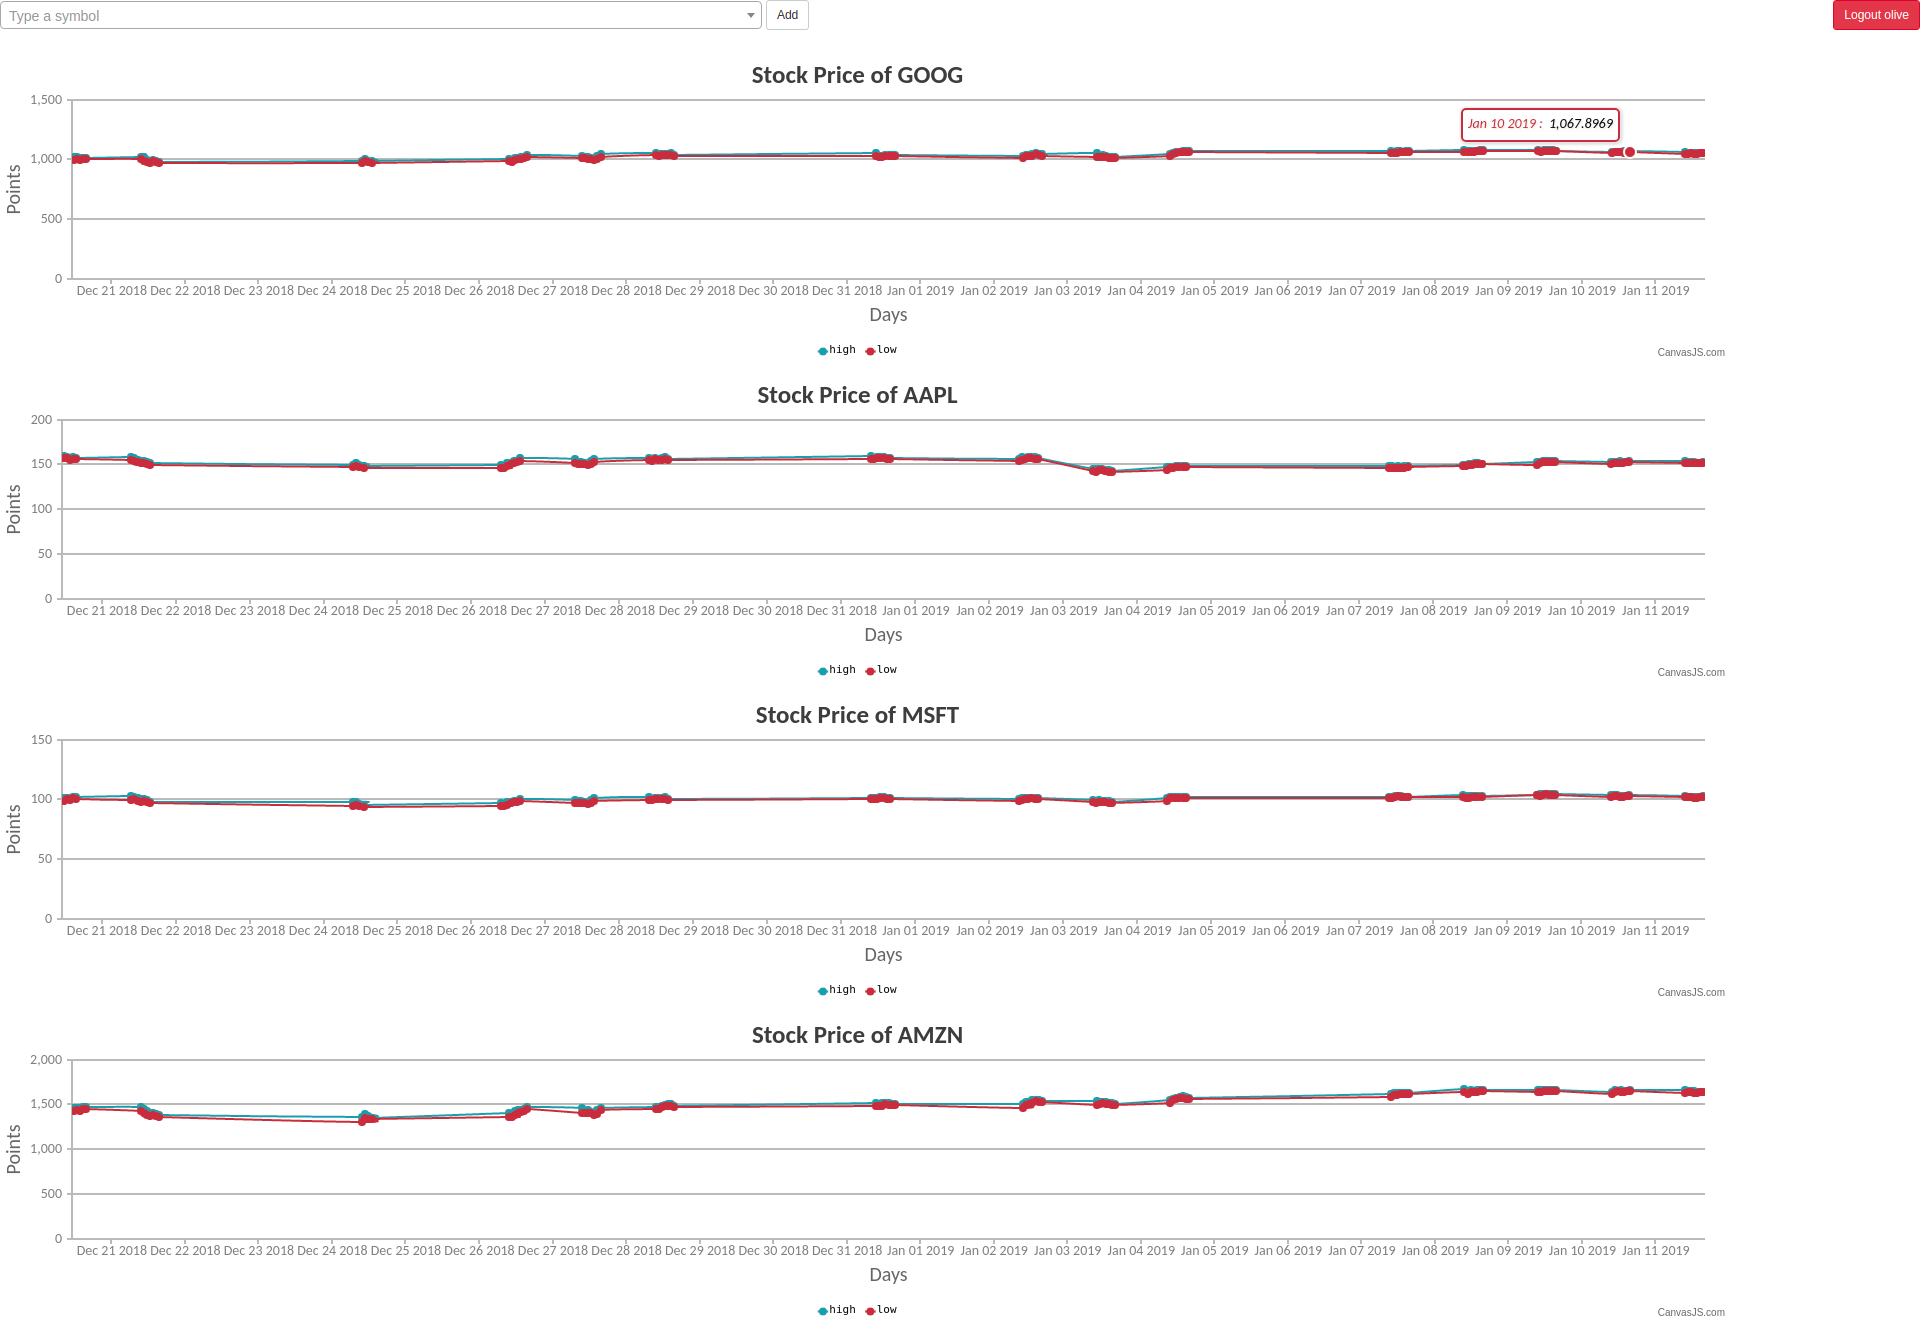
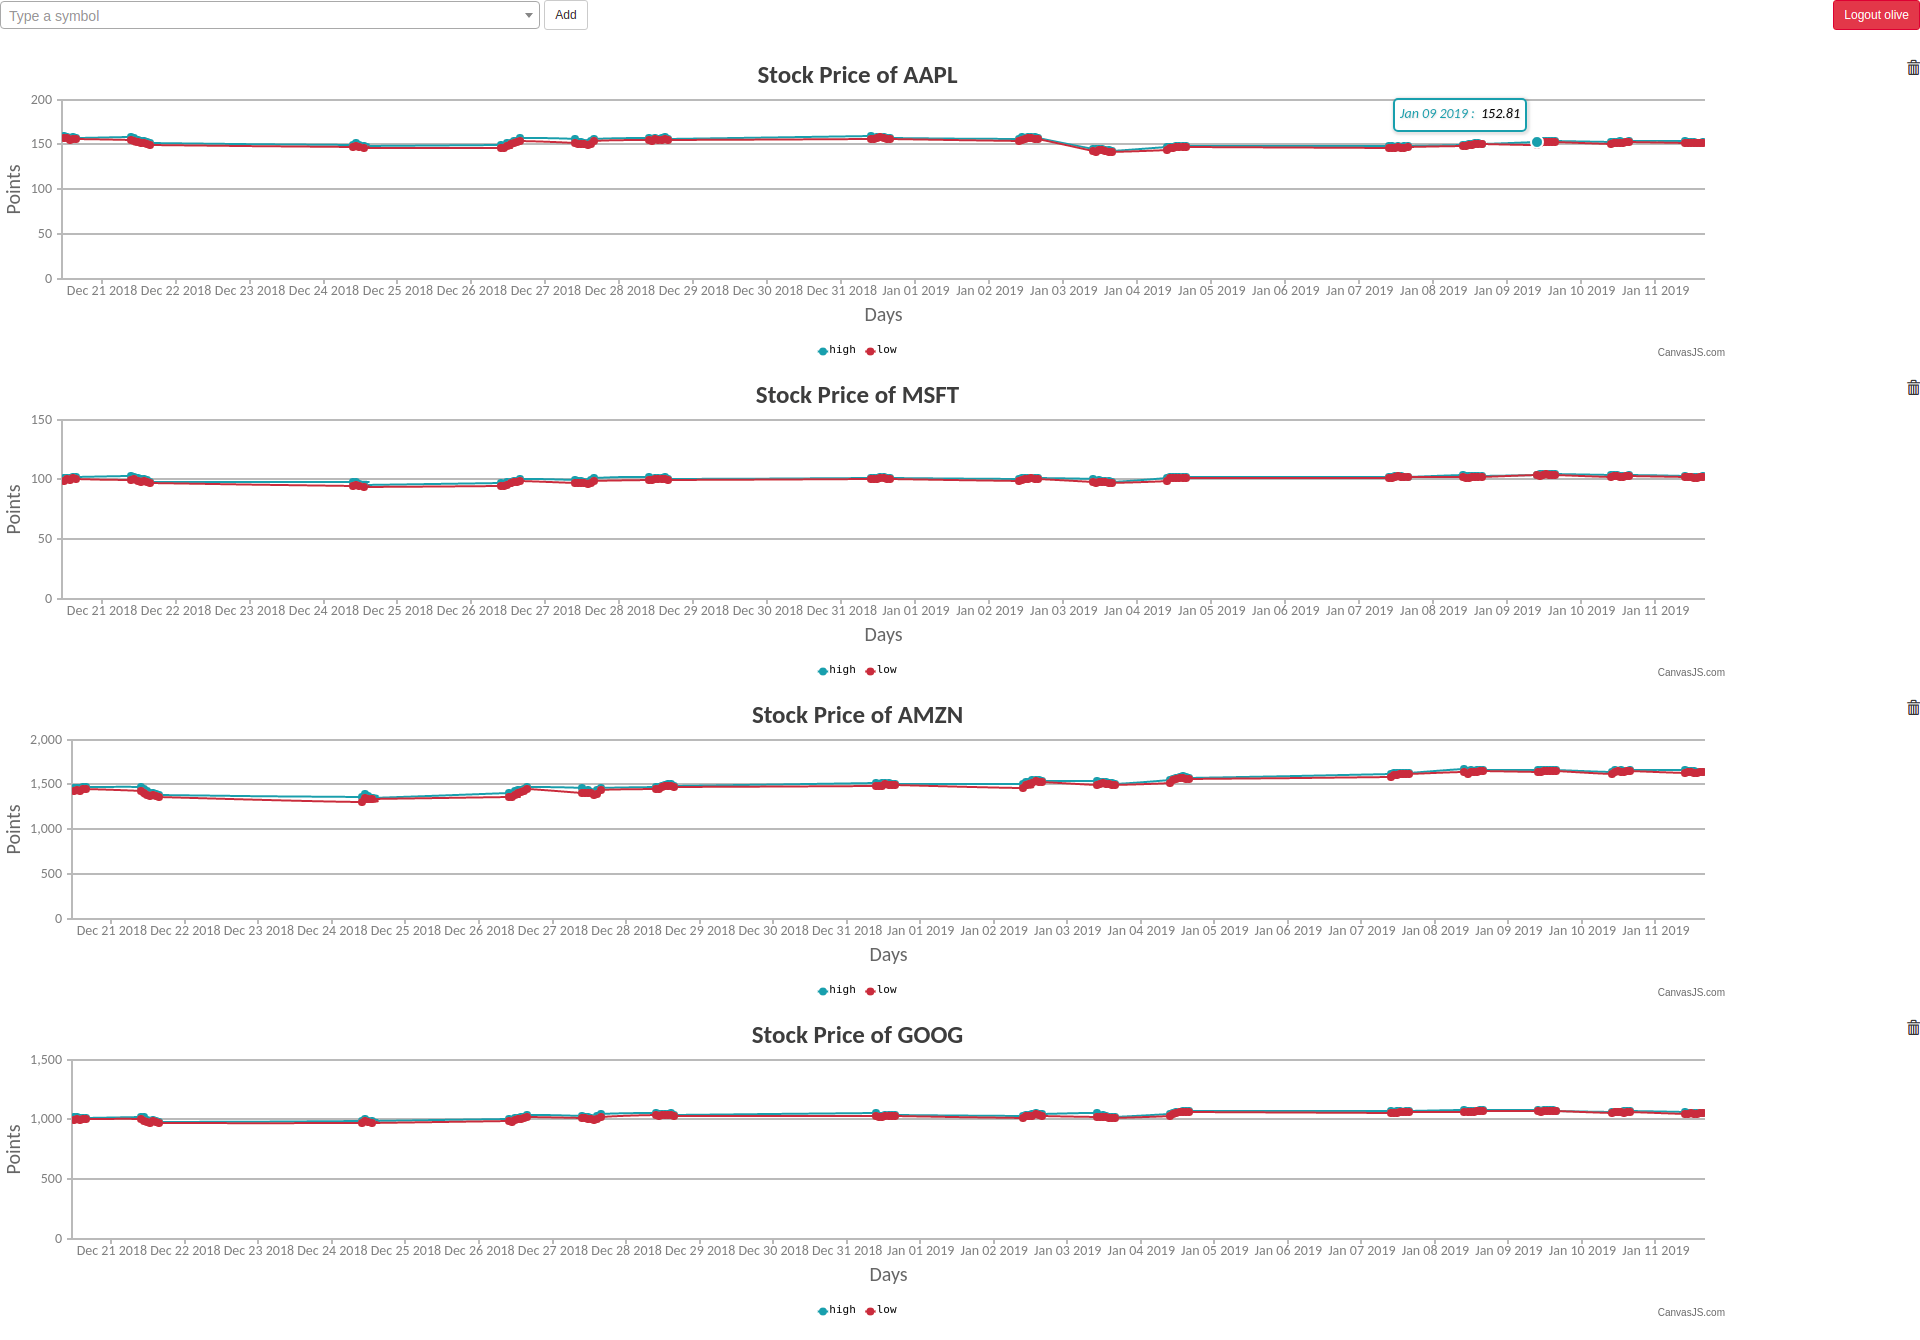
fix env variables | add delete API

diff --git a/stocktalk/templates/dashboard.html b/stocktalk/templates/dashboard.html
@@ -5,7 +5,6 @@
     <meta name="csrf-token" content="{{ csrf_token() }}">
     <link rel="stylesheet" href="https://maxcdn.bootstrapcdn.com/bootstrap/3.3.7/css/bootstrap.min.css"
           integrity="sha384-BVYiiSIFeK1dGmJRAkycuHAHRg32OmUcww7on3RYdg4Va+PmSTsz/K68vbdEjh4u" crossorigin="anonymous">
-    <!--<link rel="stylesheet" href="https://cdnjs.cloudflare.com/ajax/libs/bootstrap-select/1.13.2/css/bootstrap-select.min.css">-->
     <link href="https://cdnjs.cloudflare.com/ajax/libs/select2/4.0.6-rc.0/css/select2.min.css" rel="stylesheet" />
     <link rel="stylesheet" href="../static/css/dashboard.css">
     <title>Dashboard</title>
@@ -23,6 +22,8 @@
 
     {% for symbol in symbols %}
 
+        <span class="glyphicon glyphicon-trash" id="{{symbol}}-trash" style="float: right;"
+              onclick="submitDelete('{{ csrf_token() }}', '{{symbol}}')"></span>
         <div class="chart-container" id="{{symbol}}"></div>
         <br>
 
@@ -37,6 +38,5 @@
     <script src="../static/js/dashboard.js"></script>
     <script src="https://maxcdn.bootstrapcdn.com/bootstrap/3.3.7/js/bootstrap.min.js"
             integrity="sha384-Tc5IQib027qvyjSMfHjOMaLkfuWVxZxUPnCJA7l2mCWNIpG9mGCD8wGNIcPD7Txa" crossorigin="anonymous"></script>
-    <!--<script src="https://cdnjs.cloudflare.com/ajax/libs/bootstrap-select/1.13.2/js/bootstrap-select.min.js"></script>-->
 </body>
 </html>

diff --git a/stocktalk/static/js/dashboard.js b/stocktalk/static/js/dashboard.js
@@ -29,6 +29,20 @@ function submitSymbol(csrfToken) {
     xhttp.send(postData);
 }
 
+function submitDelete(csrfToken, sym) {
+    var xhttp = new XMLHttpRequest();
+    xhttp.onreadystatechange = function() {
+        if (this.readyState == 4 && this.status == 200) {
+            document.getElementById("save-response").innerHTML = this.responseText;
+        }
+    };
+    xhttp.open("POST", "/remove", true);
+    xhttp.setRequestHeader("X-CSRFToken", csrfToken);
+    var postData = new FormData();
+    postData.append('sym', sym);
+    xhttp.send(postData);
+}
+
 function submitLogout(csrfToken) {
     var xhttp = new XMLHttpRequest();
     xhttp.open("POST", "/logout", true);

diff --git a/stocktalk/static/css/dashboard.css b/stocktalk/static/css/dashboard.css
@@ -10,3 +10,7 @@ h3 {
     height: 300px;
     width: 90%;
 }
+
+.glyphicon-trash:hover {
+    color: red;
+}

diff --git a/stocktalk/routes.py b/stocktalk/routes.py
@@ -34,7 +34,6 @@ def login():
 	return render_template('login.html', form=form, error=error_message)
 
 
-
 @app.route('/register', methods=['GET', 'POST'])
 def register():
 	form = RegForm()
@@ -82,7 +81,6 @@ def search_symbols():
 
 @app.route('/save', methods=['POST'])
 @login_required
-# @csrf.exempt
 def save_symbol():
 	sym = request.form.get('sym')
 	if sym:
@@ -92,6 +90,18 @@ def save_symbol():
 		else:
 			UserSymbols.objects(username=current_user.username).update_one(add_to_set__symbols=[sym])
 		return "Success!"
+	return "Failed! Try again!"
+
+
+@app.route('/remove', methods=['POST'])
+@login_required
+def remove_symbol():
+	sym = request.form.get('sym')
+	if sym:
+		try:
+			UserSymbols.objects(username=current_user.username).update_one(pull__symbols=sym)
+		except DoesNotExist:
+			return "Failed! Try again!"
 	return "Failed! Try again!"
 
 
@@ -119,7 +129,6 @@ def time_series():
 def dashboard():
 	try:
 		saved_symbols = UserSymbols.objects.get(username=current_user.username)
-		print(saved_symbols.symbols)
 		return render_template('dashboard.html', symbols=saved_symbols.symbols, username=current_user.username)
 	except DoesNotExist:
 		return render_template('dashboard.html', symbols=[], username=current_user.username)

diff --git a/stocktalk/config/dev.py b/stocktalk/config/dev.py
@@ -4,4 +4,5 @@ MONGODB_SETTINGS = {
     'port': 27017
 }
 
-SECRET_KEY = b'\x8f\xc4\x92>\xd94\x11\xdcO\x12\xcb\xe1\xd3\xb6\x0f@\xf7S\x1d\x81\x01,\x1c\\2\x99\xb3\x04@\xd9\x9fY6%\x86`7\xf2\xc3\x8e\x8fj'
+SECRET_KEY = b'XXXXXXXXXXXXXXXXXXXX'
+ALPHA_VANTAGE_KEY = 'XXXXXXXXXXXXXXXXXXX'

diff --git a/README.md b/README.md
@@ -1,1 +1,41 @@
 # stock-talk
+
+This repository contains the code a Flask application that allows a user to add stock symbols and track them in the dashboard.
+
+### Endpoints
++ `GET /register`: Renders the register page
++ `GET /login`: Renders the login page
++ `GET /search`: Takes `sym` parameter and fetches stock symbols
++ `GET /timeseries`: Takes `sym` parameter and fetches timeseries stock values
++ `GET /dashboard`: Renders the dashboard page 
+<br/>
++ `POST /register`: Creates a user in the database
++ `POST /login`: Creates a user session with existing user
++ `POST /logout`: Logs out a user session
++ `POST /save`: Takes a `sym` data parameter and saves it against a user
++ `POST /remove`: Takes a `sym` data parameter and deletes it from the database
+
+### Requirements
+All the code is written in Python 3. The primary database is MongoDB. The dependencies can be installed by:
+
+```
+$ pip install -r requirements.txt
+```
+
+### Run the app
+Activate the virtual environment.
+```
+$ source activate <venv>
+```
+The necessary development environment variables can be set by:
+```
+$ source dev.env
+```
+Once the environment is activated, run the app using:
+```
+$ flask run
+```
+<br/>
+A screenshot of the dashboard:
+
+![Screenshot of the dashboard](dashboard_screenshot.png)
